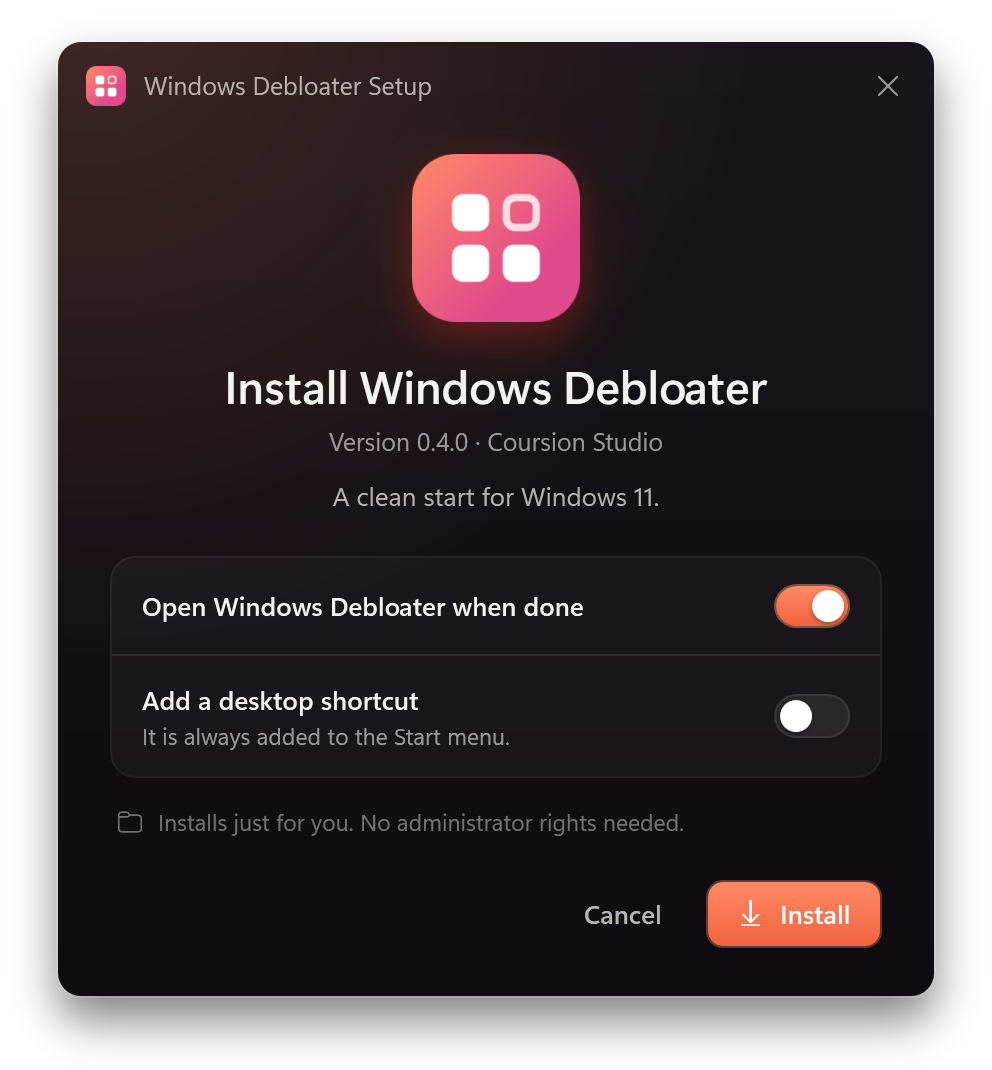
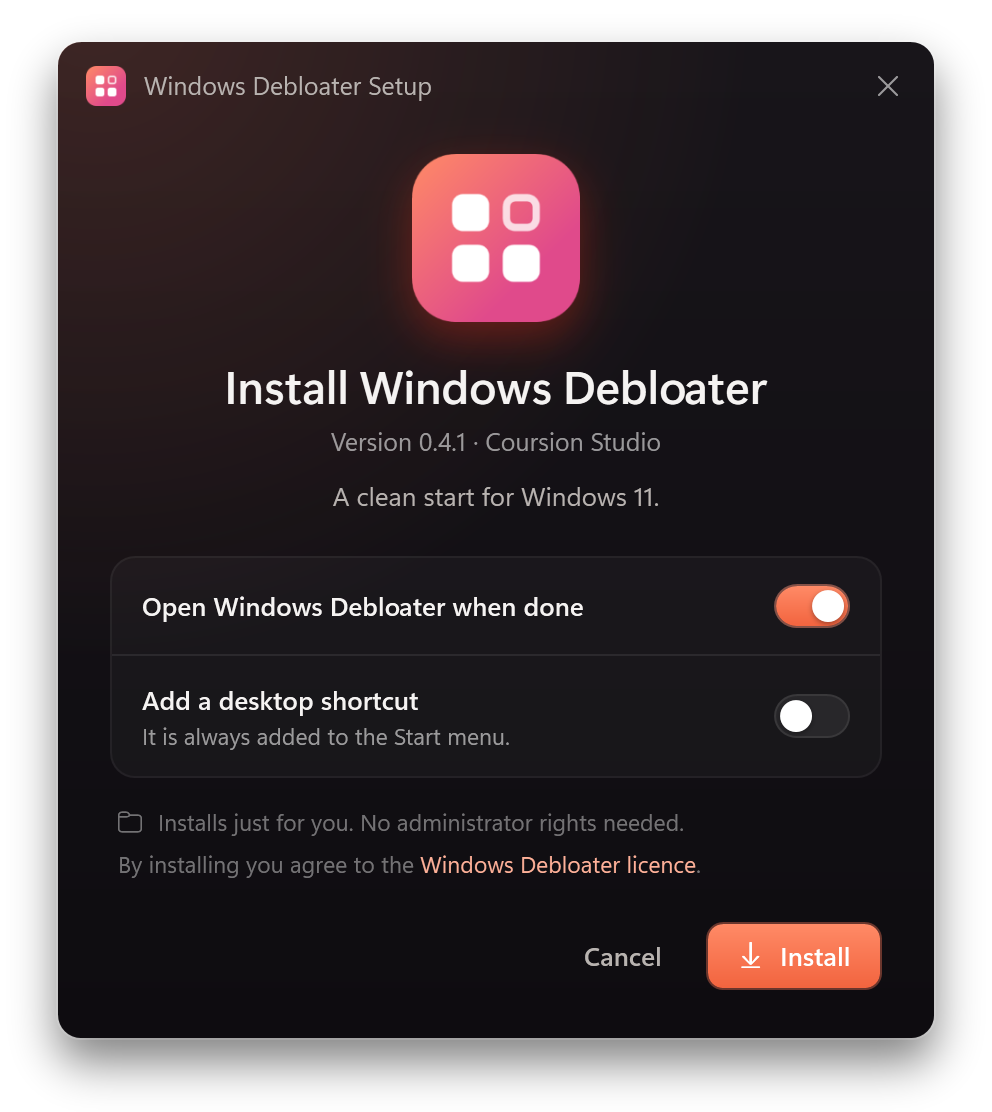
Windows Debloater 0.4.1
The licence is now Coursion Studio's own, in LICENSE.md.

diff --git a/LICENSE.md b/LICENSE.md
@@ -1,0 +1,52 @@
+# Windows Debloater — Licence
+
+Copyright © 2026 Coursion Studio. All rights reserved.
+
+Windows Debloater ("the app") is proprietary software published by Kuray Öğün, trading as
+Coursion Studio, of Ankara, Türkiye ("we", "us"). It is not open source.
+
+## 1. Licence
+We grant you a personal, non-exclusive, non-transferable licence to install and use the app
+on computers you own or control. You get a licence to use the app; we keep ownership of the
+app, its source code, its name, and its design.
+
+## 2. What you may not do
+- Copy, redistribute, sell, rent or sublicense the app, modified or not.
+- Reverse engineer, decompile or disassemble it, except where the law expressly allows it.
+- Remove or change copyright notices or branding.
+- Use the app to break the law or infringe anyone else's rights.
+
+The app's scripts are installed as files you can read. Reading them to see what the app does
+is welcome; that does not give you the right to reuse them.
+
+## 3. Privacy
+The app does its work on your PC. No account, analytics or telemetry. The one thing it asks
+the internet is whether there is a newer version, which you can switch off in Settings. What
+that request carries is described in PRIVACY.md.
+
+## 4. Updates and features
+We may change, add or remove features between releases. Later releases, including paid ones,
+may come with their own terms.
+
+## 5. No warranty
+The app is provided "as is", without warranty of any kind, to the extent the law allows. We
+don't promise it will be uninterrupted, error-free, or fit for a particular purpose. It
+changes Windows settings and removes apps when you tell it to, and shows you what it will
+change before it does; choosing what to change is up to you.
+
+## 6. Limitation of liability
+To the extent the law allows, we are not liable for indirect or consequential loss, including
+lost data or profits. Our total liability is limited to what you paid for the app, if anything.
+Nothing here limits liability that cannot legally be limited.
+
+## 7. Ending the licence
+You may stop using the app at any time by uninstalling it. Your licence ends automatically if
+you breach these terms.
+
+## 8. Governing law
+These terms are governed by the laws of Türkiye, and the courts of Türkiye have jurisdiction.
+If you are a consumer in the EU or UK, you keep the protection of the mandatory consumer law
+of the country you live in.
+
+## 9. Contact
+support@coursion.studio · https://coursion.studio

diff --git a/PRIVACY.md b/PRIVACY.md
@@ -7,5 +7,5 @@ Windows Debloater does its work on your PC. It asks the internet one question: i
 - **No analytics, no telemetry, no account.**
 - **What it stores.** Your language, theme, the size of the window, whether to check for updates and when it last did are saved in `%LOCALAPPDATA%\WindowsDebloater\settings.json`. A newer version that was found is noted in `update.json` next to it. Each run writes a folder under `%LOCALAPPDATA%\WindowsDebloater\runs` containing the list of changes you chose, a log of what happened, the previous value of every setting it changed and the names of the apps it removed, so that the run can be reverted. These files stay on your PC. Delete the folder whenever you like; you only lose the ability to revert those runs from the History page.
 - **What it reads.** The list of installed apps, the registry values named in [docs/changes.md](docs/changes.md), and, if you choose to remove OneDrive, the files in your OneDrive folder so it can copy them. None of it leaves the PC.
-- **The things that open something else.** "Open in Store" on the History page opens the Microsoft Store app on that app's page. "Project page on GitHub" on the Settings page and "What's new" on the update sheet open this repository in your browser. All of them happen only when you click them. What the Store and GitHub do is covered by their own privacy policies, not this one.
+- **The things that open something else.** "Open in Store" on the History page opens the Microsoft Store app on that app's page. "Project page on GitHub" on the Settings page and "What's new" on the update sheet open this project's page in your browser. On the same page, "coursion.studio" opens the website and the support address opens your mail program with a new message; "Licence" only opens the licence file that came with the tool. All of them happen only when you click them. What the Store and GitHub do is covered by their own privacy policies, not this one.
 - **The installer.** It copies the program into `%LOCALAPPDATA%\Programs\WindowsDebloater`, adds a Start menu shortcut and an entry under Settings > Apps > Installed apps, all within your own user account. It contacts nothing.

diff --git a/README.md b/README.md
@@ -8,7 +8,7 @@
   <a href="https://github.com/Coursion-Studio/windows-debloater/releases"><img alt="Downloads" src="https://img.shields.io/github/downloads/Coursion-Studio/windows-debloater/total?style=flat-square&color=e04a8b"></a>
   <img alt="Windows 11" src="https://img.shields.io/badge/Windows-11-0078d4?style=flat-square&logo=windows">
   <img alt="No admin needed to install" src="https://img.shields.io/badge/install-no%20admin%20needed-2ecc71?style=flat-square">
-  <a href="LICENSE"><img alt="MIT licence" src="https://img.shields.io/badge/licence-MIT-4b0082?style=flat-square"></a>
+  <a href="LICENSE.md"><img alt="Proprietary licence" src="https://img.shields.io/badge/licence-proprietary-4b0082?style=flat-square"></a>
 </p>
 
 <p align="center">
@@ -185,5 +185,5 @@ The source code lives in a private repo. This one hosts the releases, the update
 
 ## 📄 Licence
 
-MIT. See [LICENSE](LICENSE). © 2026 Coursion Studio.
+Proprietary. See [LICENSE.md](LICENSE.md). © 2026 Coursion Studio. All rights reserved.
 Questions: [support@coursion.studio](mailto:support@coursion.studio) · [coursion.studio](https://coursion.studio)

diff --git a/CHANGELOG.md b/CHANGELOG.md
@@ -1,5 +1,14 @@
 # Changelog
 
+## 0.4.1 - 2026-11-20
+
+The licence changes, and the tool says who makes it.
+
+- From this version on, Windows Debloater comes under Coursion Studio's own licence. It is in `LICENSE.md`, and one click away in Setup and in Settings. Versions up to 0.4.0 were published under the MIT licence.
+- Setup says that installing means agreeing to the licence, and shows the licence right there.
+- Settings > About shows the copyright, the licence, the website and the support address.
+- The zip now carries the README written for people who use the tool.
+
 ## 0.4.0 - 2026-11-20
 
 A real program with an installer, Revert, and updates over the air.
